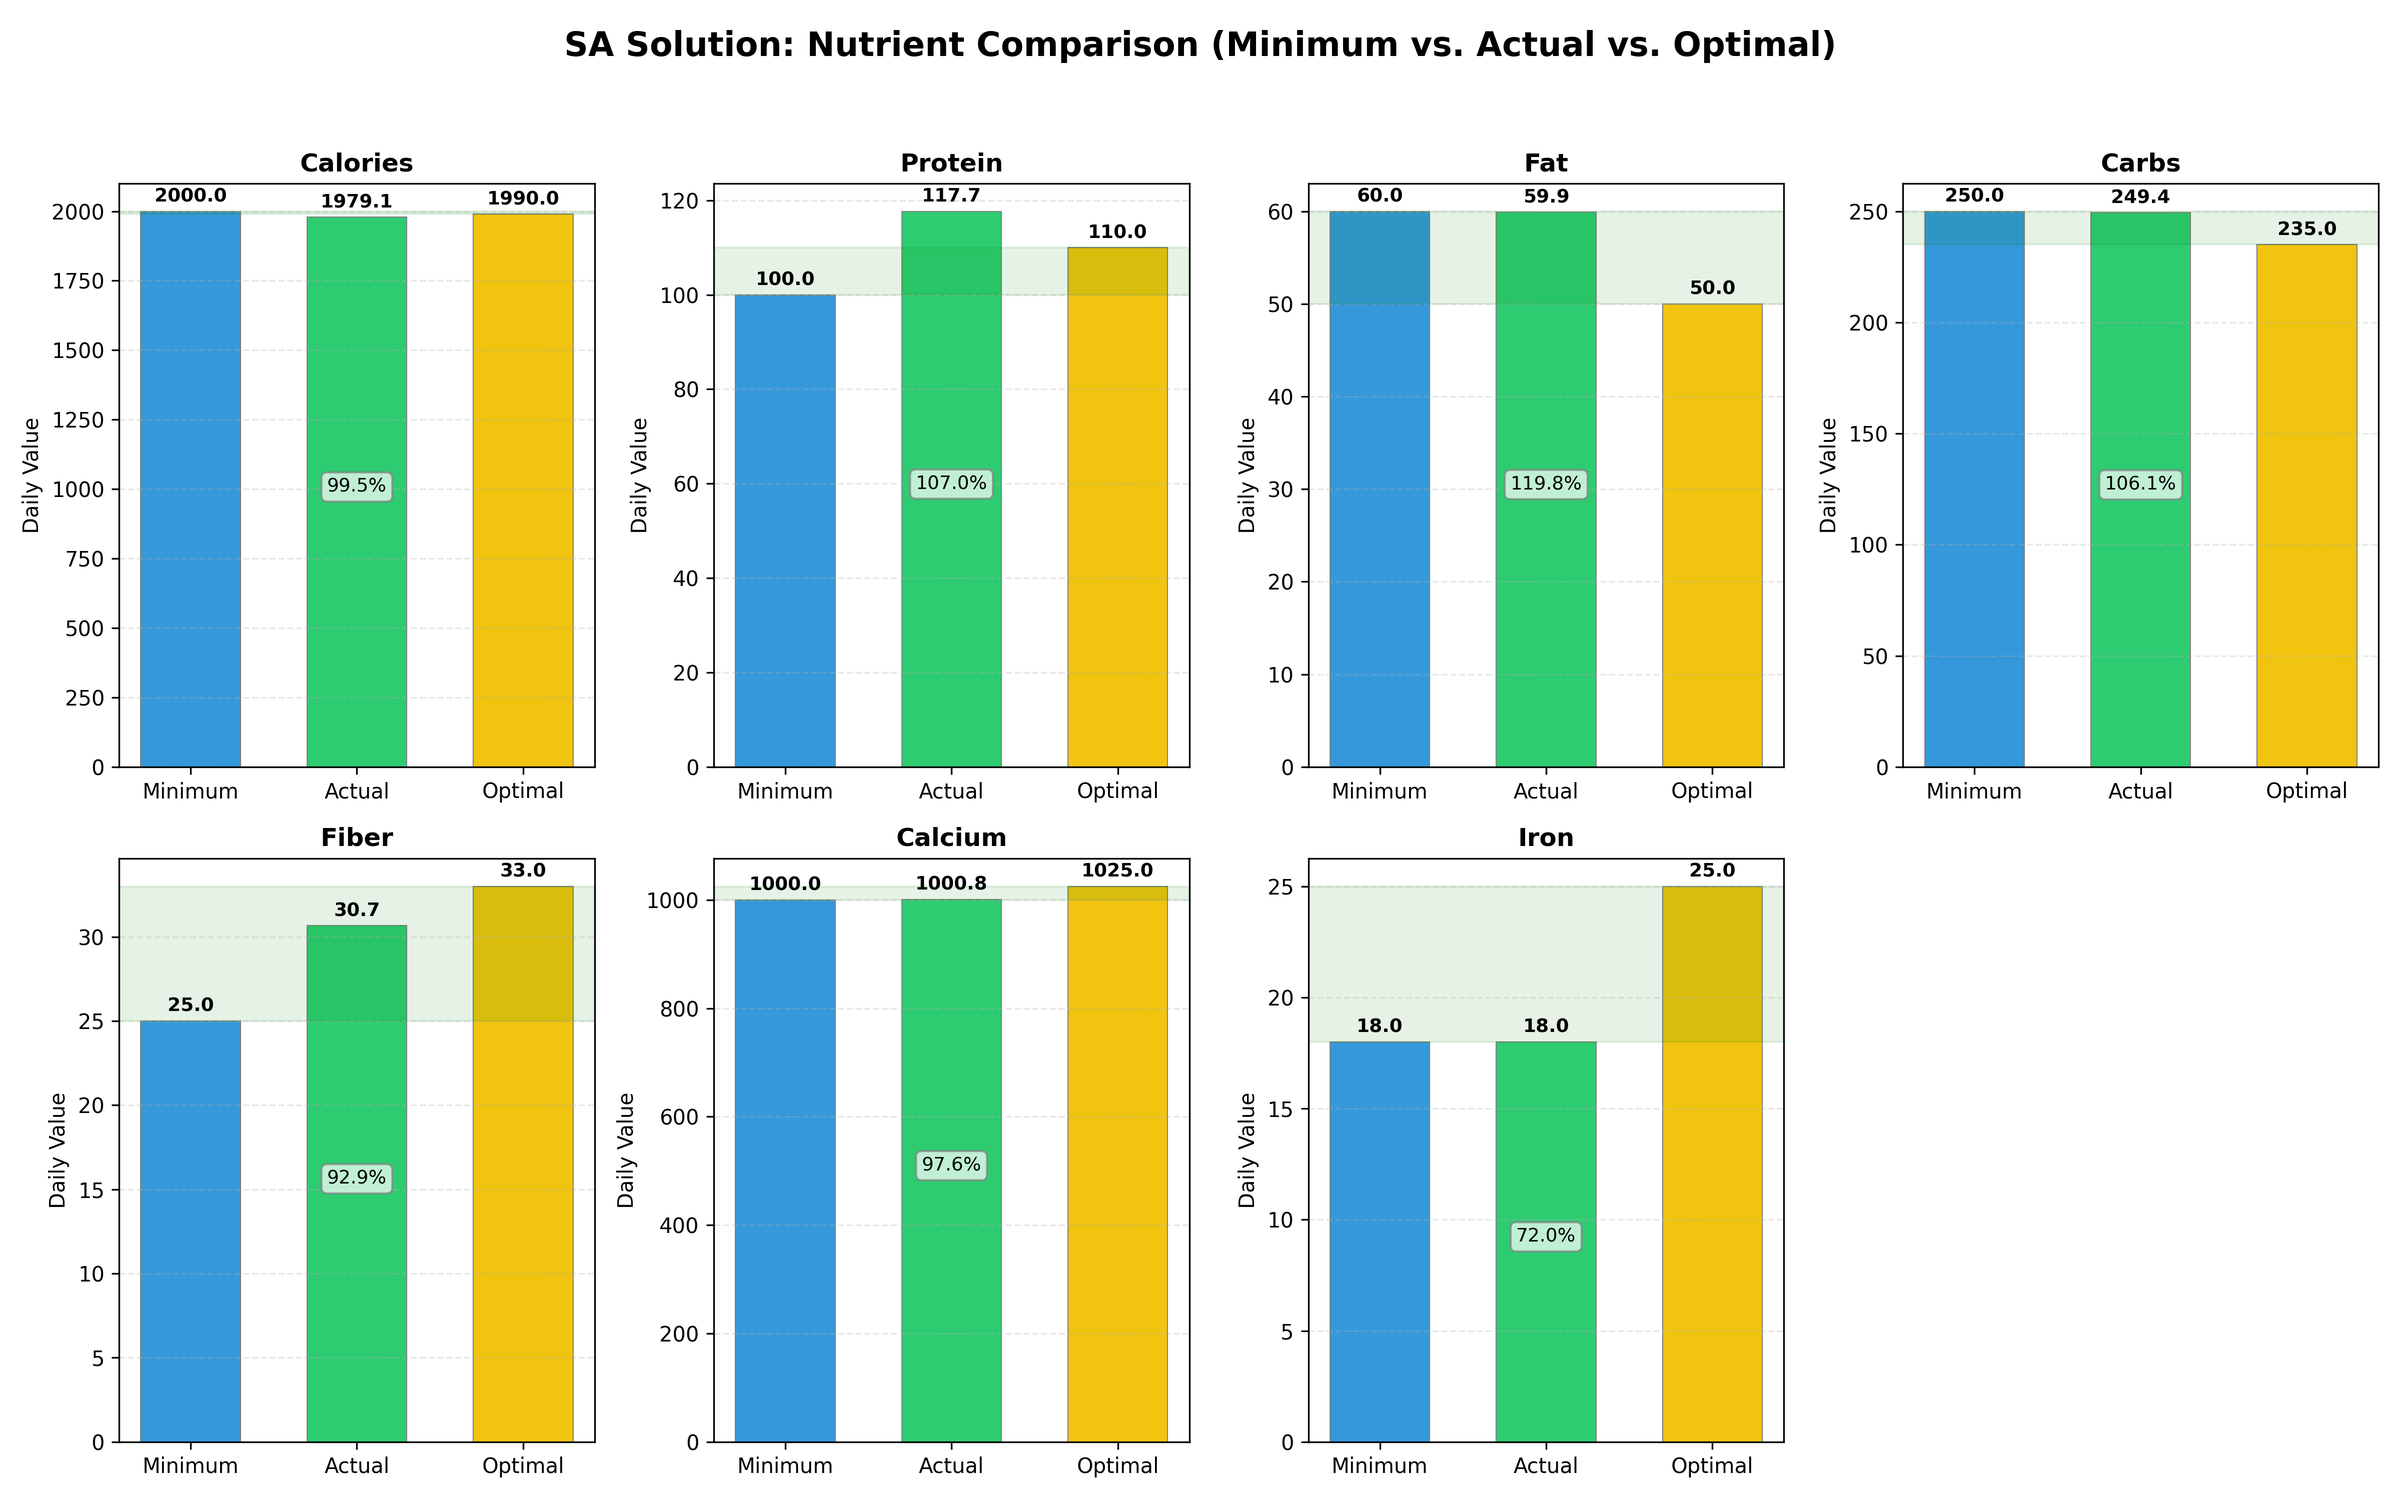
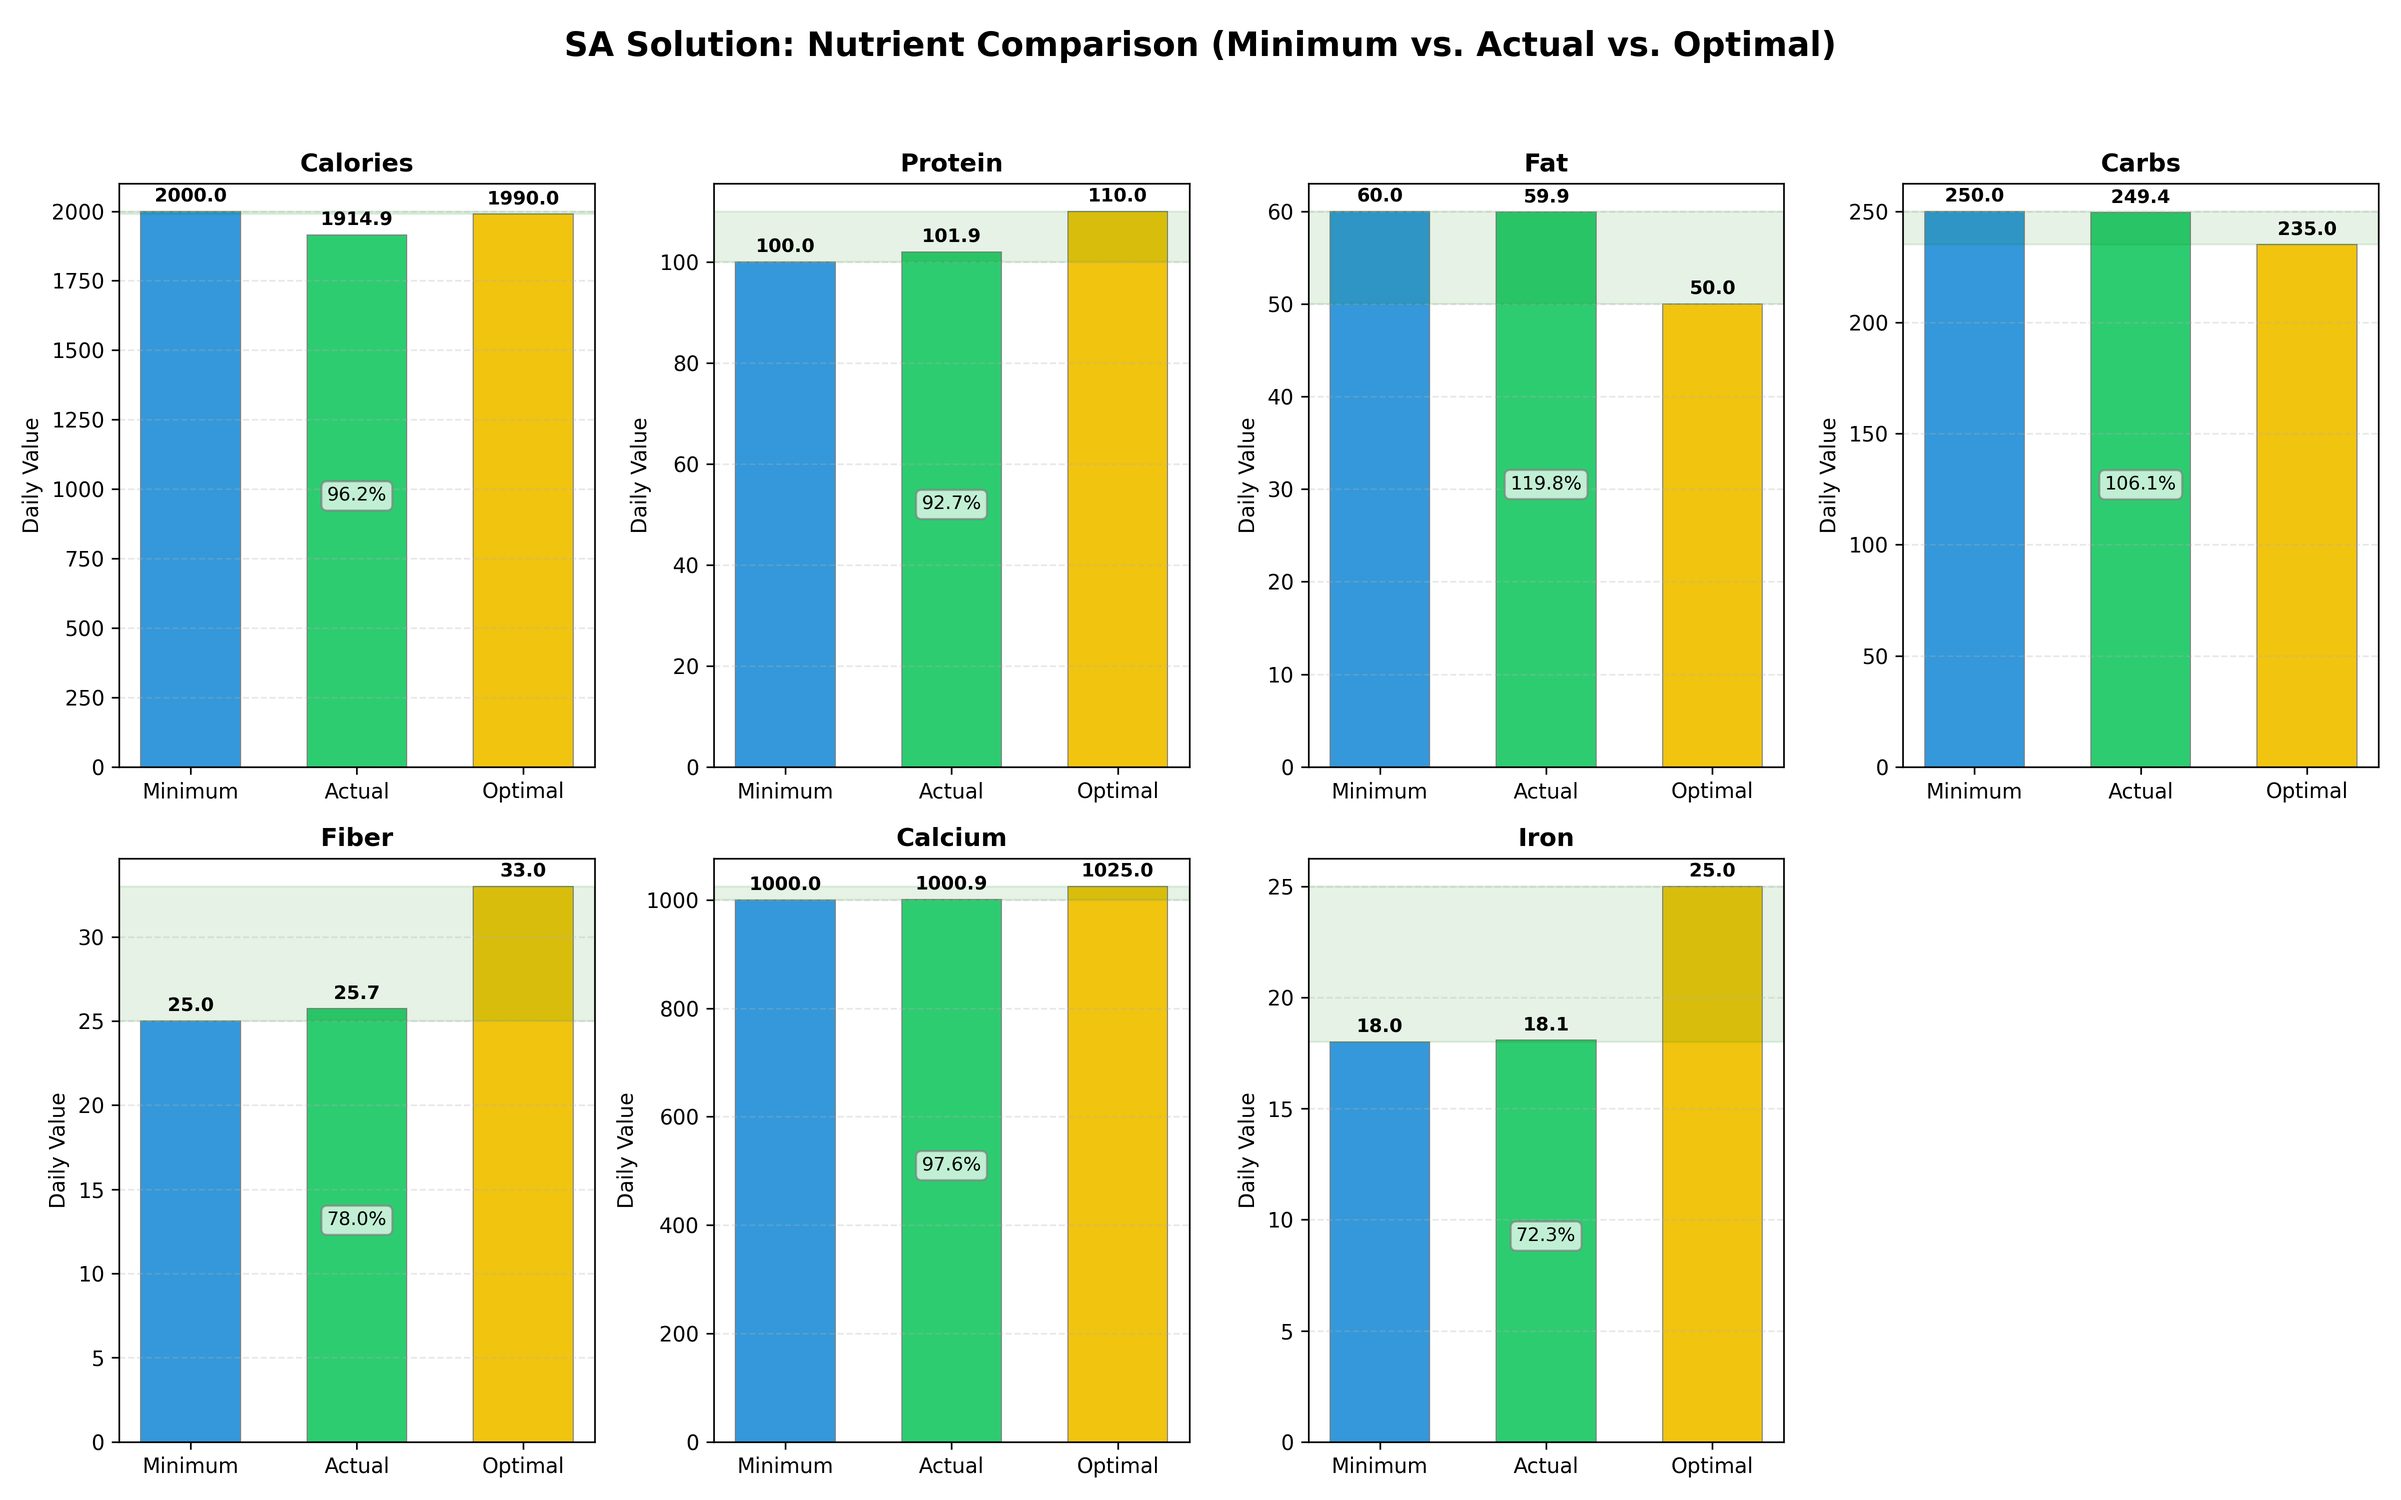
add distance percentage

diff --git a/main.py b/main.py
@@ -201,7 +201,7 @@ def print_results(algorithm: str, best_solution: List[float], best_fitness: floa
     # Nutrient summary
     print("\nDaily Nutrient Summary:")
     print("-"*80)
-    print(f"{'Nutrient':^12} | {'Required':^10} | {'Actual':^10} | {'Optimal':^10} | {'% of Req':^10}")
+    print(f"{'Nutrient':^12} | {'Required':^10} | {'Actual':^10} | {'Optimal':^10} | {'% of Req':^10} | {'% of dis':^10}")
     print("-"*80)
     
     directions = {
@@ -213,13 +213,15 @@ def print_results(algorithm: str, best_solution: List[float], best_fitness: floa
             'calcium':  'max',
             'iron':     'max',
         }
+    dis = 0
     for nut, actual in nutrient_totals.items():
         required = min_daily.get(nut, 0)
         optimal = optimal_daily.get(nut, required)
         pct_req = (actual / required) * 100 if required > 0 else 0
+        dis = (abs(actual-required) / required) * 100 if required > 0 else 0
         dir = directions[nut]
         
-        print(f"{nut.capitalize():12} | {required:10.1f} | {actual:10.1f} | {optimal:10.1f} | {pct_req:9.1f}%")
+        print(f"{nut.capitalize():12} | {required:10.1f} | {actual:10.1f} | {optimal:10.1f} | {pct_req:9.1f}% | {dis:9.1f}%")
     
     # Food basket summary
     print("\nOptimal Food Basket (Monthly):")
